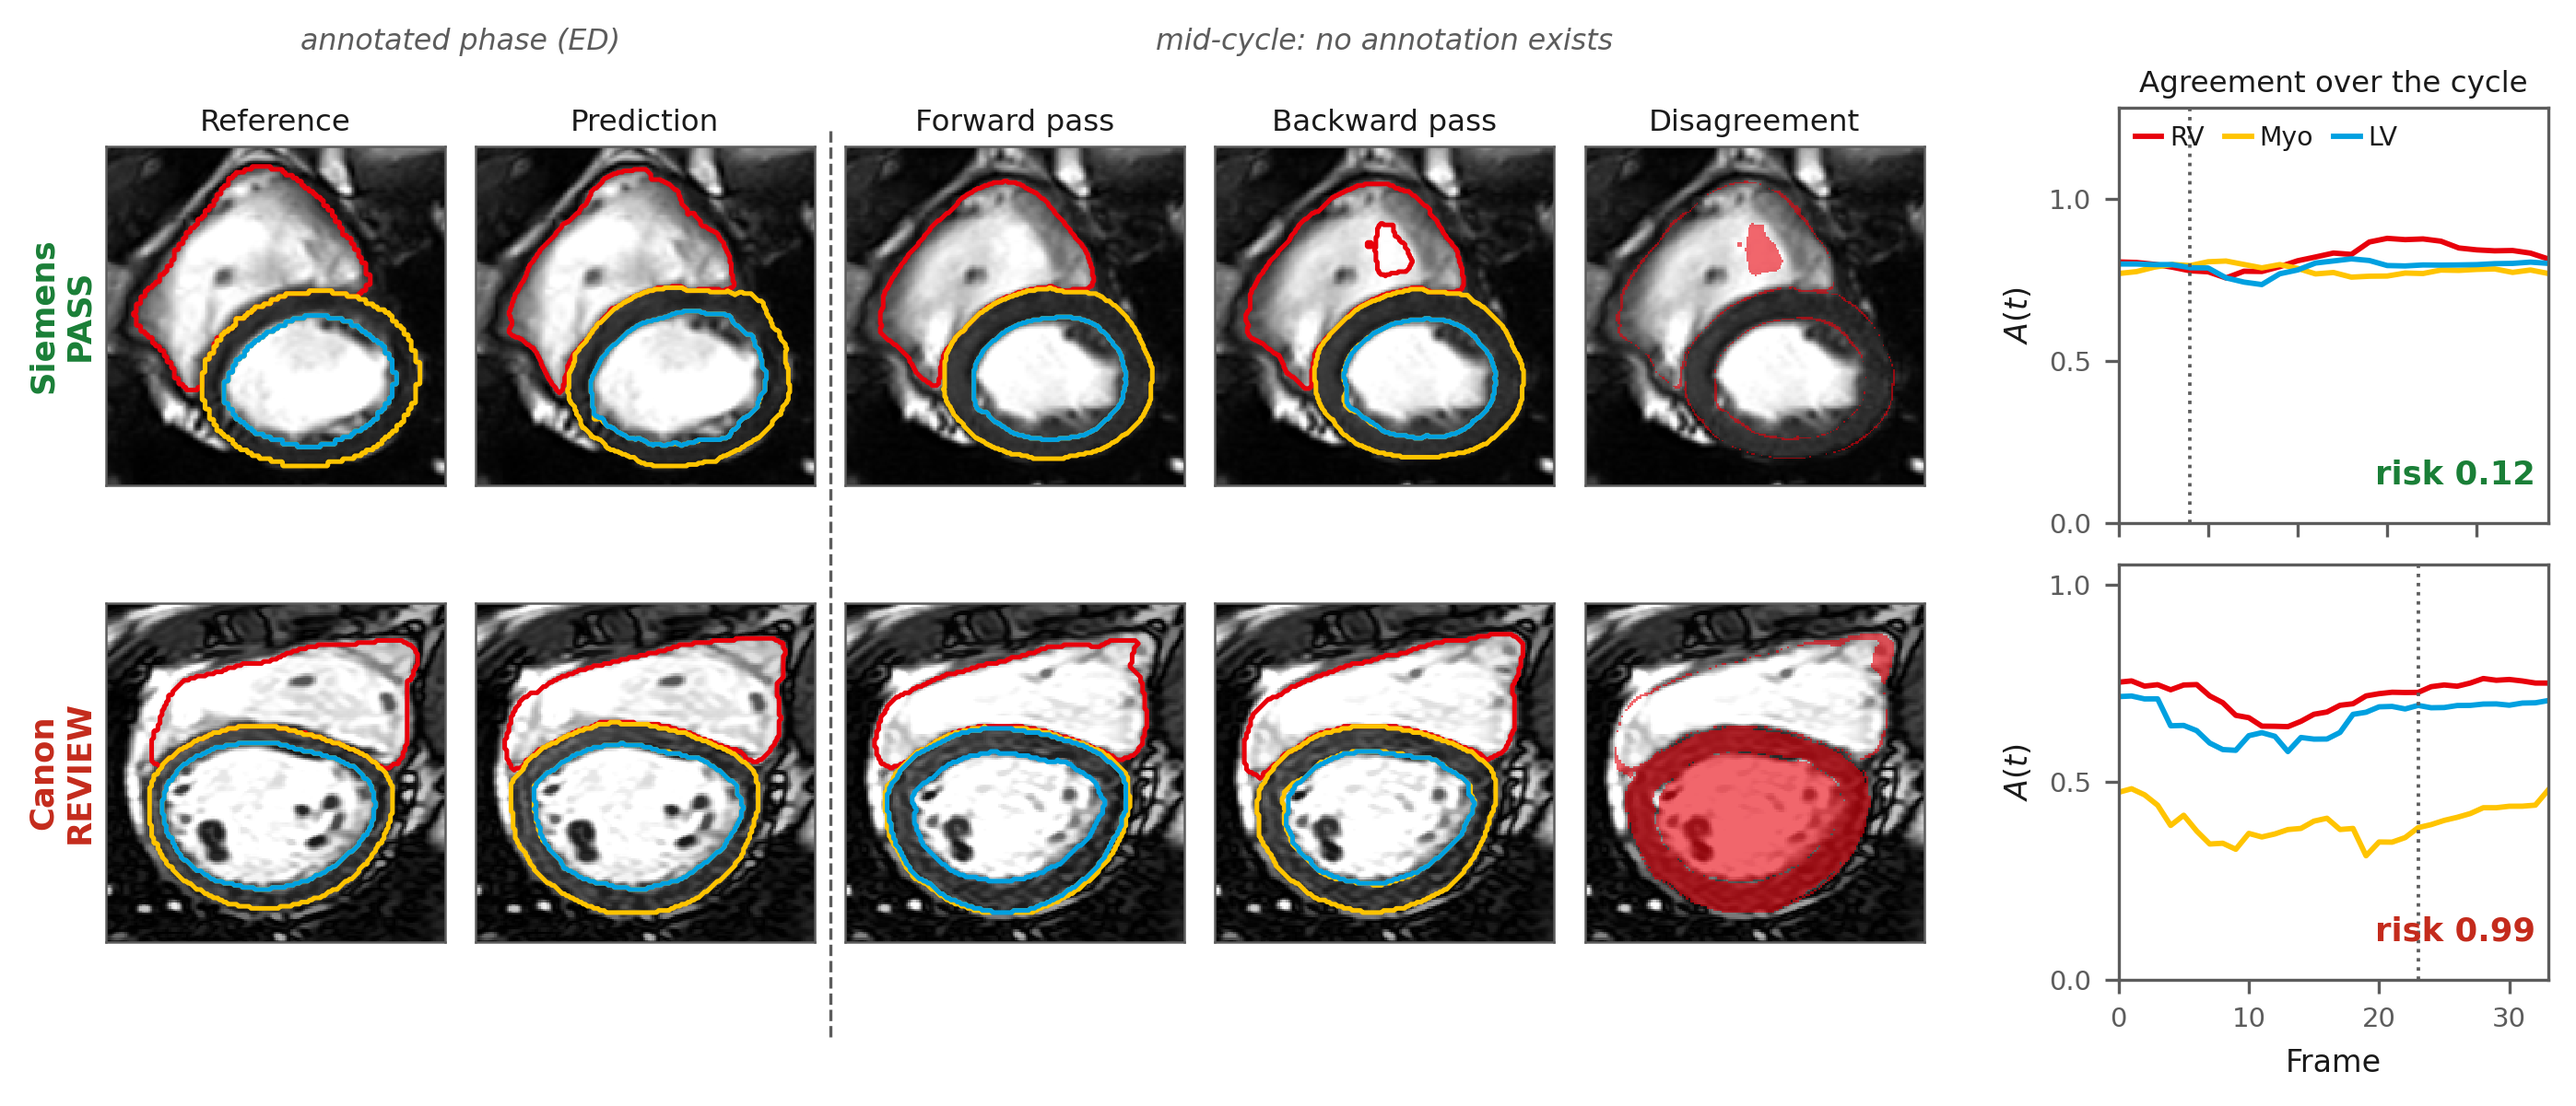
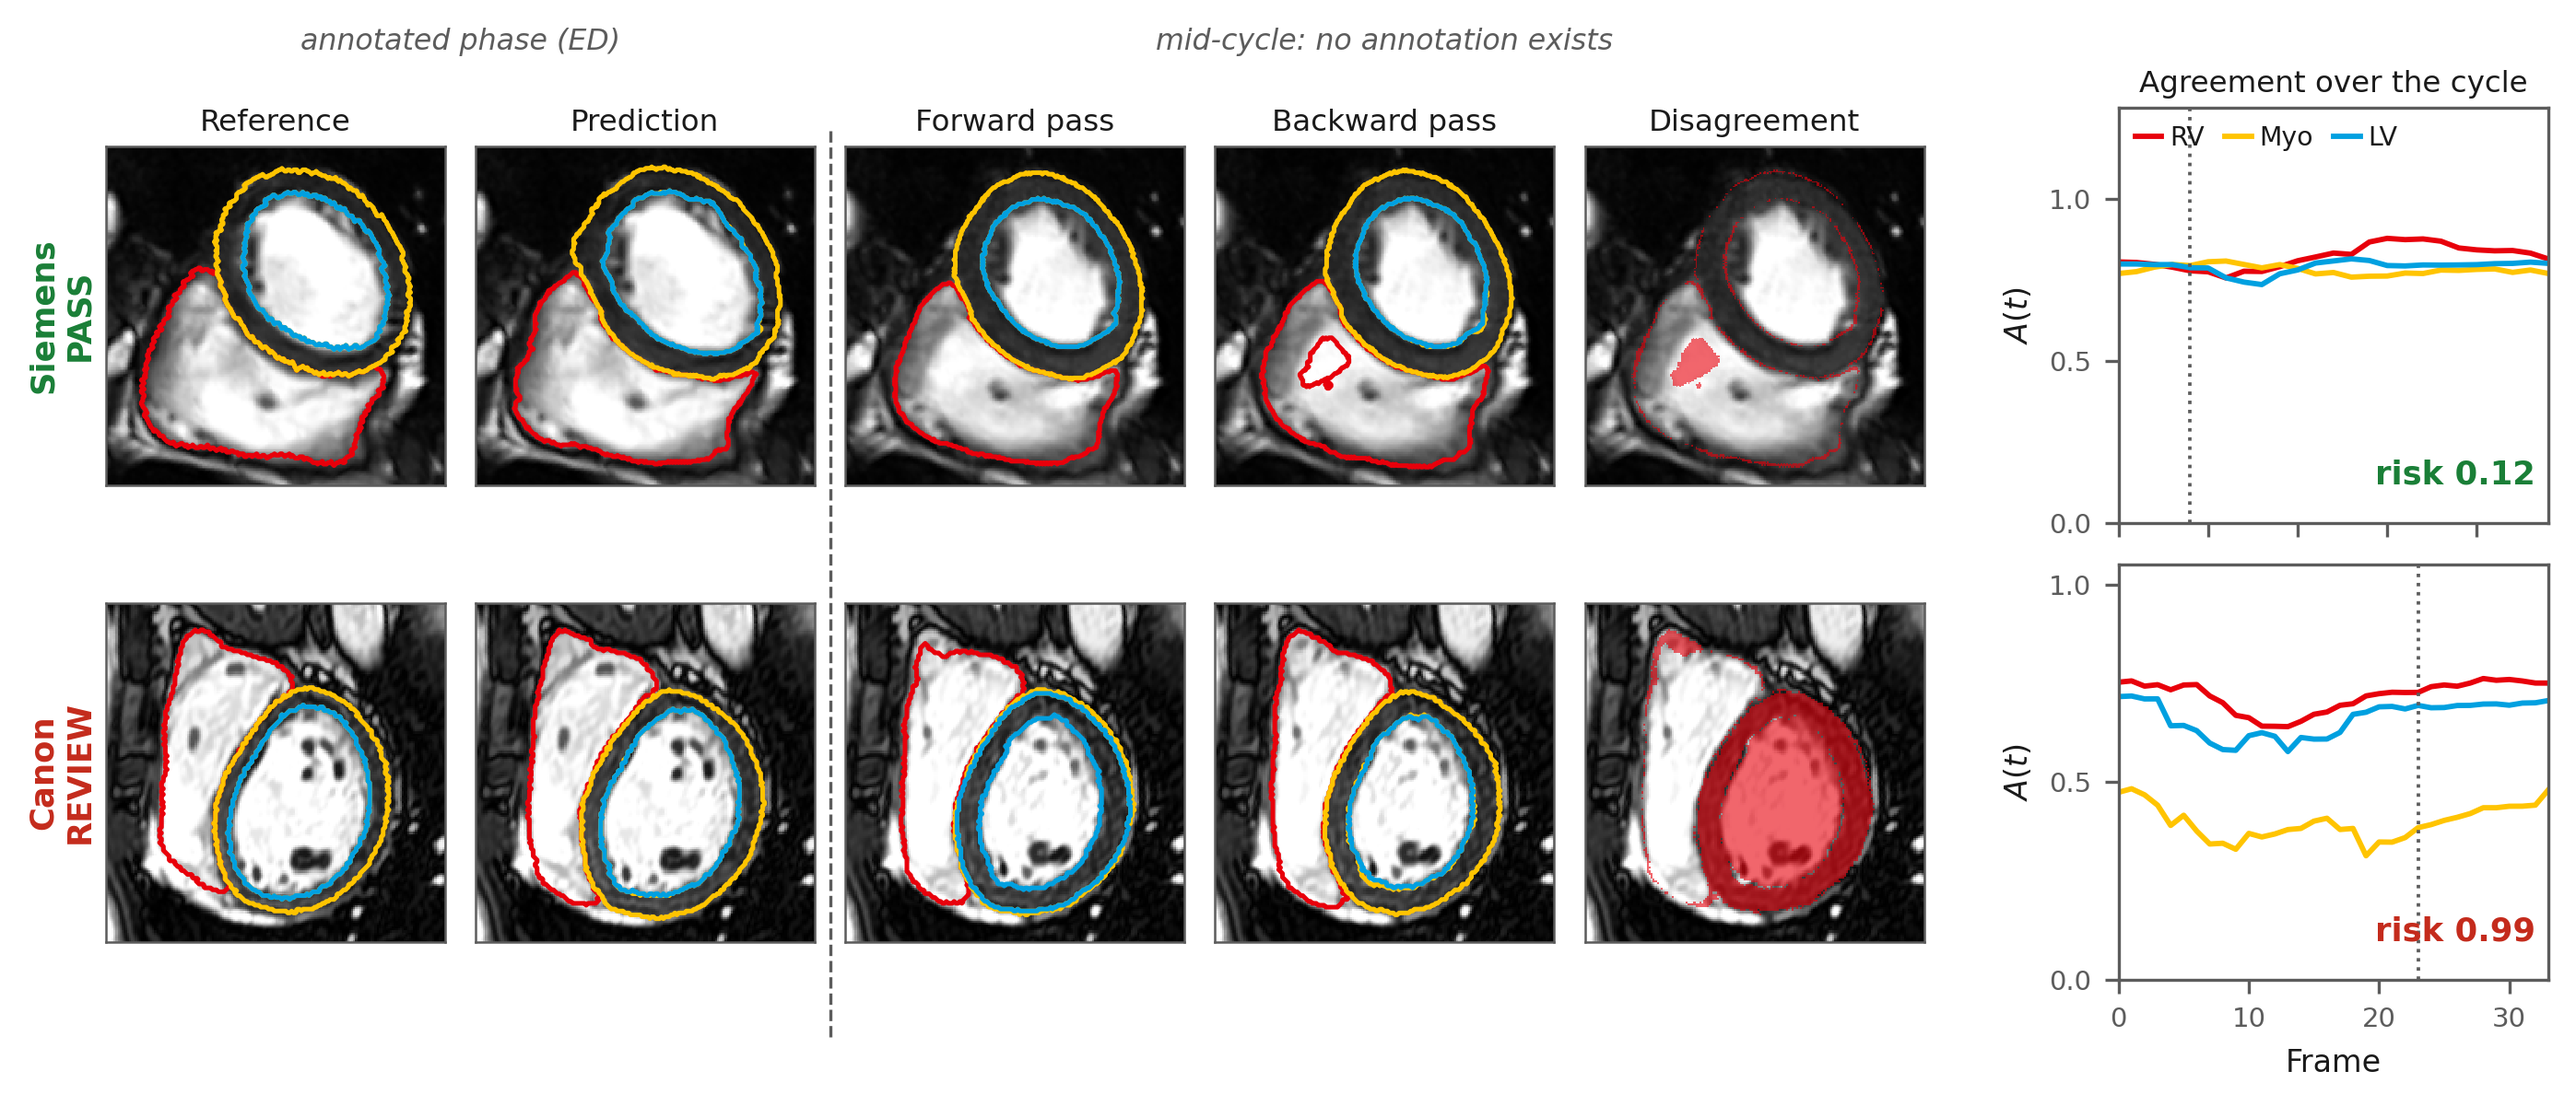
Fig. 2: standard radiological short-axis orientation (RV left, LV right)
M&Ms is acquired with per-vendor image orientations, so the two example cases originally
appeared rotated differently. Each is now reoriented to the standard short-axis convention --
RV to the left of the LV, septum vertical -- by solving for the rotation from the RV and LV
centroids and resolving the 180-degree ambiguity by checking the result. Display only; no
metric is affected.

Changed region(s): [[0.0311, 0.5237, 0.747, 0.8626], [0.0311, 0.1232, 0.747, 0.4621]]

diff --git a/src/make_figures.py b/src/make_figures.py
@@ -25,6 +25,7 @@ import matplotlib.pyplot as plt
 import numpy as np
 import pandas as pd
 from matplotlib.colors import ListedColormap
+from scipy.ndimage import rotate
 from sklearn.calibration import calibration_curve
 from sklearn.metrics import roc_curve
 
@@ -153,6 +154,34 @@ def fig2_qualitative():
         tm = int((lo + hi) / 2) if hi > lo + 1 else min(T - 1, lo + 1)     # mid-cycle
         gt = d["ed_mask"]
 
+        # Put the study into standard radiological short-axis orientation: RV to the left of
+        # the LV, septum roughly vertical. M&Ms is acquired with per-vendor orientations, so the
+        # angle is computed per case from the RV and LV centroids of the reference mask, then
+        # applied to every image and mask. (Display only; no metric uses this.)
+        def _rot(rot, arr, order):
+            return rotate(arr.astype(np.float32 if order else np.uint8), rot,
+                          reshape=False, order=order)
+
+        def _cent(m, c):
+            idx = np.nonzero(m == c)
+            return np.array([idx[0].mean(), idx[1].mean()]) if idx[0].size else None
+
+        # choose the rotation that places the RV centroid to the LEFT of the LV centroid,
+        # septum roughly vertical -- the standard radiological short-axis orientation. The
+        # angle is solved per case (M&Ms is acquired with per-vendor orientations), then a
+        # 180 deg ambiguity is resolved by checking the result. Display only; no metric uses it.
+        rv0, lv0 = _cent(gt, 1), _cent(gt, 3)
+        vy, vx = rv0 - lv0
+        rot = 180.0 - np.degrees(np.arctan2(vy, vx))
+        if _cent(_rot(rot, gt, 0), 1)[1] > _cent(_rot(rot, gt, 0), 3)[1]:
+            rot += 180.0                              # RV landed right of LV -> flip
+        ed = np.stack([_rot(rot, ed[k], 0) for k in range(T)])
+        es = np.stack([_rot(rot, es[k], 0) for k in range(T)])
+        bi = np.stack([_rot(rot, bi[k], 0) for k in range(T)])
+        gt = _rot(rot, gt, 0)
+        _framecache = {ei: _rot(rot, d["frames"][ei, 0], 1),
+                       tm: _rot(rot, d["frames"][tm, 0], 1)}
+
         # crop tightly to the whole heart: the bounding box of the reference and both
         # propagations, made square, with a small margin
         nz = (ed[tm] > 0) | (es[tm] > 0) | (bi[ei] > 0) | (gt > 0)
@@ -178,8 +207,8 @@ def fig2_qualitative():
             if r == 0 and title:
                 ax.set_title(title, fontsize=7.8, pad=4)
 
-        img_ed = d["frames"][ei, 0].astype(np.float32)
-        img_md = d["frames"][tm, 0].astype(np.float32)
+        img_ed = _framecache[ei]
+        img_md = _framecache[tm]
 
         show(axes[r, 0], img_ed, gt, "Reference")
         show(axes[r, 1], img_ed, bi[ei], "Prediction")

diff --git a/metispaper.md b/metispaper.md
@@ -438,7 +438,7 @@ Two patients, five columns. Both rows show a **mid-cycle frame**, deliberately: 
 > for frame *t* and structure *c*, `A_c(t) = Dice( ed_pred[t] , es_pred[t] )` — the overlap between
 > the two independent propagations. The map in column 5 is simply `ed_pred[t] != es_pred[t]`.
 
-Both rows show a **mid-ventricular** level. Basal and apical slices are deliberately excluded: the
+Both cases are displayed in **standard radiological short-axis orientation** (right ventricle to the left of the left ventricle, septum vertical); this is a per-case rotation for display only and enters no computation. Both rows show a **mid-ventricular** level. Basal and apical slices are deliberately excluded: the
 right ventricle is truncated at the base and the cavity vanishes at the apex, so neither shows the
 whole heart. The crop is tight to the bounding box of the reference and both propagations.
 
